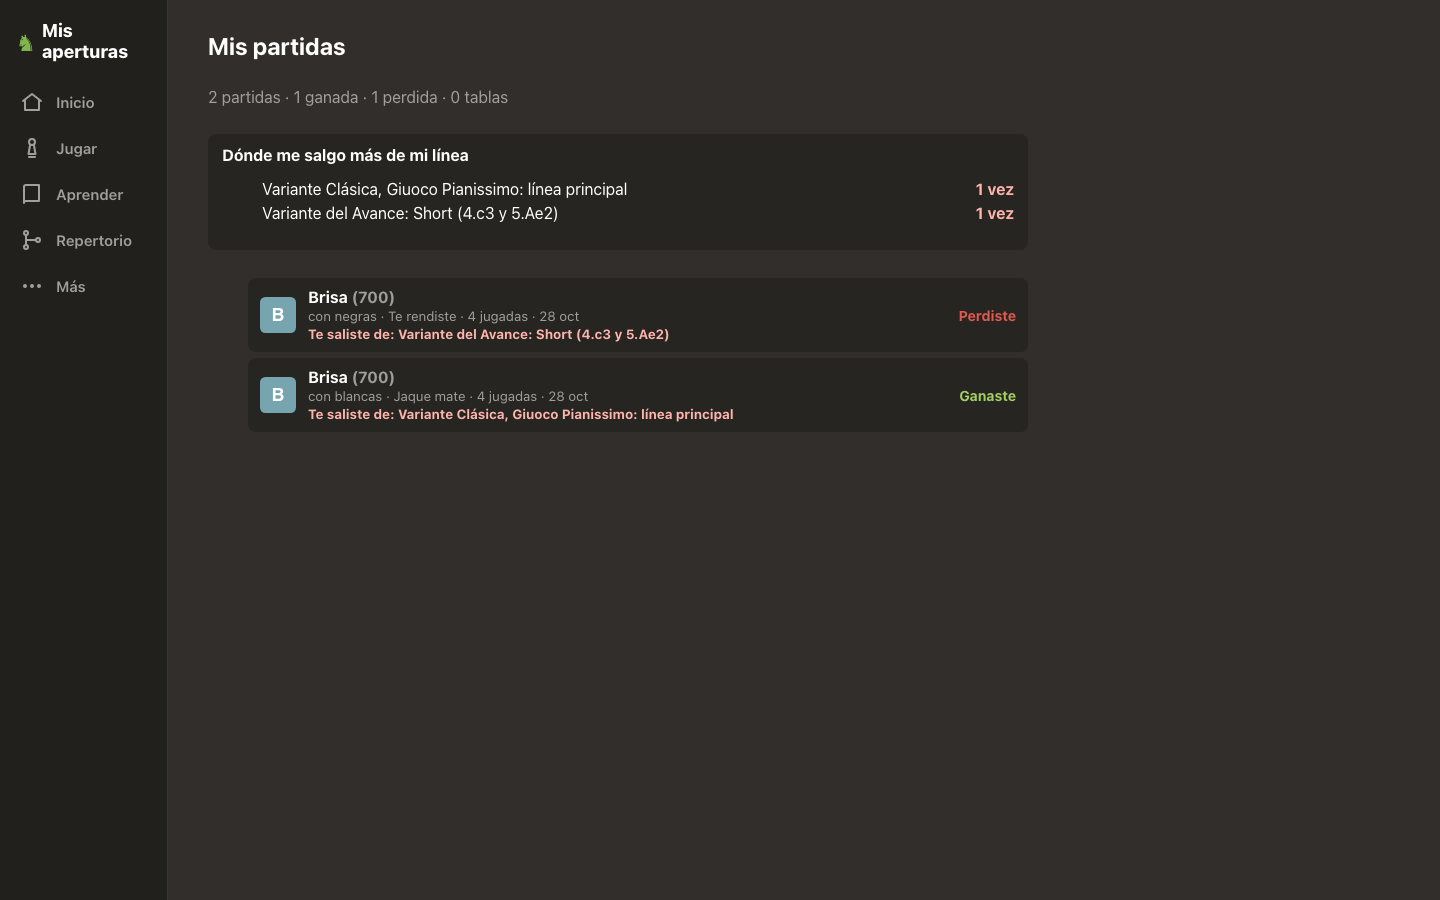
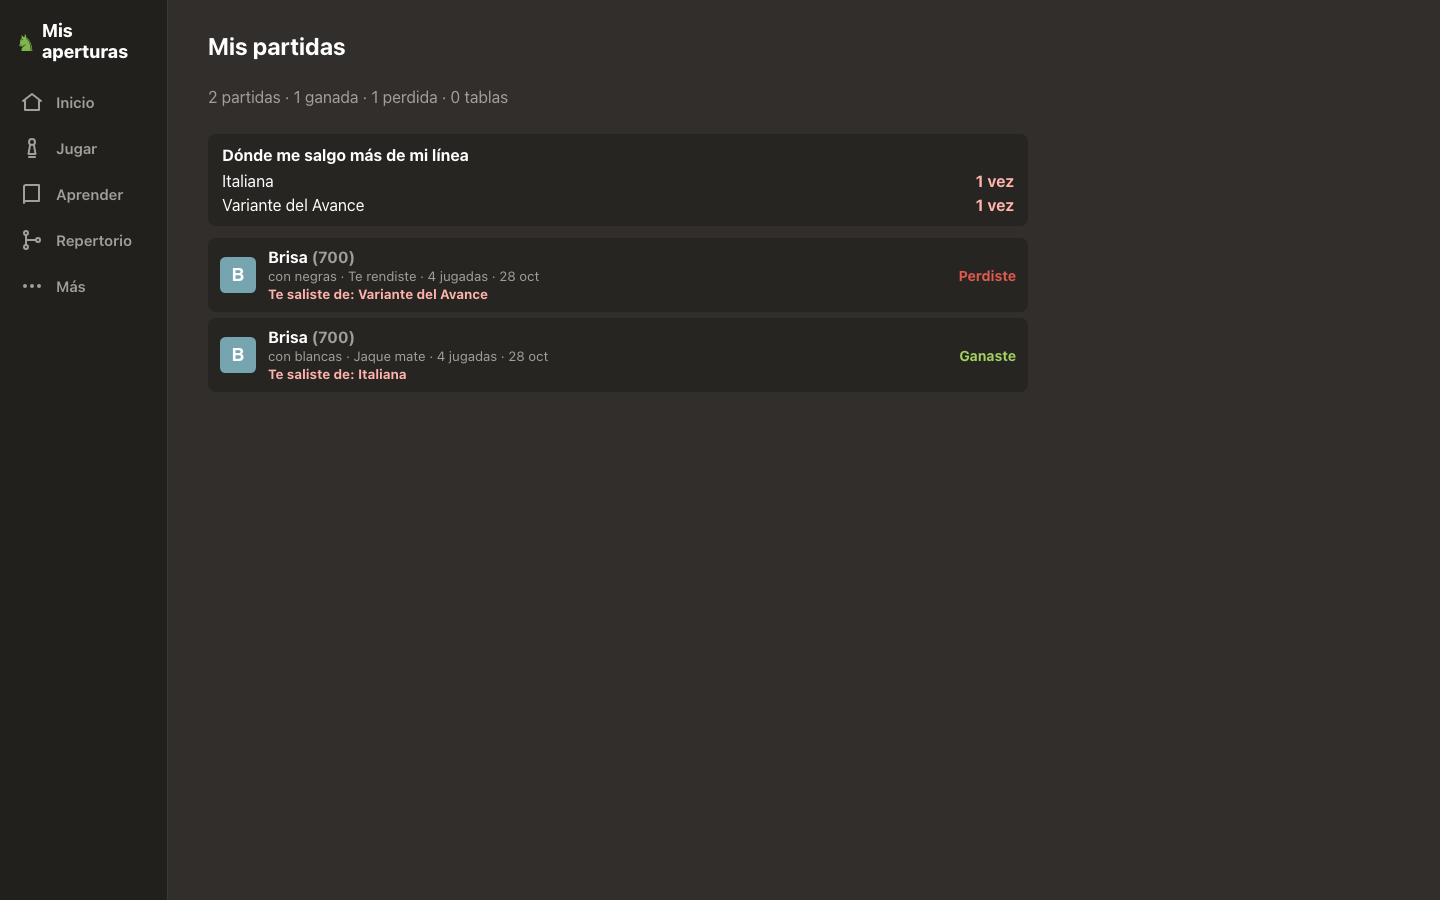
feat: historial de mis partidas, con dónde me salgo más (R2)
Cada partida terminada se guarda en el navegador con su resumen de
apertura (aunque la guía estuviera apagada). 'Mis partidas' (menú Más):
totales, en qué líneas me salgo más y la lista. La salida se nombra por
lo que comparten las líneas de esa jugada (en 2.Cf3: 'Italiana').

Claude-Session: https://claude.ai/code/session_01TXRhWkTq6qnZpMtyyLCSRy

diff --git a/src/guia/guia.ts b/src/guia/guia.ts
@@ -335,13 +335,15 @@ export function resumenDePartida(rep: Repertorio, color: ColorCorto, historia: s
     if (!op) {
       if (esMiPly(color, ply)) {
         const linea = ops[0]!
+        // si esa jugada todavía sirve a varias líneas, se nombra lo que comparten (la familia o la apertura)
+        const nombrada = lineaNombrada(linea.lineas)
         return {
           caso: 'me-sali',
           hastaPly: ply - 1,
-          texto: `Seguiste tu línea hasta ${ply > 0 ? num(historia[ply - 1]!, ply - 1) : 'el inicio'}. En ${num(jugada, ply)} te saliste tú: tu línea decía ${num(linea.san, ply)} (${linea.lineas[0]!.nombre}).`,
-          linea: linea.lineas[0],
+          texto: `Seguiste tu línea hasta ${ply > 0 ? num(historia[ply - 1]!, ply - 1) : 'el inicio'}. En ${num(jugada, ply)} te saliste tú: tu línea decía ${num(linea.san, ply)} (${nombrada.nombre}).`,
+          linea: nombrada,
           salida: { ply, jugue: jugada, linea: linea.san },
-          ingles: inglesDeLinea(linea.lineas[0]),
+          ingles: inglesDeResumen(nombrada),
         }
       }
       return {
@@ -352,10 +354,17 @@ export function resumenDePartida(rep: Repertorio, color: ColorCorto, historia: s
         ingles: inglesDeResumen(ultimaLinea),
       }
     }
-    ultimaLinea = op.lineas.length > 1 && new Set(op.lineas.map((l) => l.familia)).size === 1 ? { ...op.lineas[0]!, nombre: op.lineas[0]!.familia } : op.lineas.length > 1 ? { ...op.lineas[0]!, nombre: ctx_nombreApertura(op.lineas[0]!) } : op.lineas[0]
+    ultimaLinea = lineaNombrada(op.lineas)
   }
   const ultima = historia.length > 0 ? num(historia[historia.length - 1]!, historia.length - 1) : 'el inicio'
   return { caso: 'completa', hastaPly: historia.length - 1, texto: `Seguiste tu línea toda la partida, hasta ${ultima}${ultimaLinea ? ` (${ultimaLinea.nombre})` : ''}.`, linea: ultimaLinea, ingles: inglesDeResumen(ultimaLinea) }
+}
+
+/** La línea con el nombre de lo que comparten: ella misma si es una; su familia; o su apertura (el curso). */
+function lineaNombrada(lineas: LineaRepertorio[]): LineaRepertorio {
+  const l = lineas[0]!
+  if (lineas.length === 1) return l
+  return new Set(lineas.map((x) => x.familia)).size === 1 ? { ...l, nombre: l.familia } : { ...l, nombre: ctx_nombreApertura(l) }
 }
 
 /** En el resumen, si la línea se nombra por su familia o su curso, solo la apertura en inglés (sin la variante). */

diff --git a/src/estilos.css b/src/estilos.css
@@ -368,7 +368,7 @@ h1, h2, h3 { margin: 0; }
 .historial { display: flex; flex-direction: column; gap: 12px; }
 .historial h1 { font-size: 24px; }
 .historial h2 { font-size: 16px; margin-bottom: 8px; }
-.lista-salidas, .lista-partidas { list-style: none; display: flex; flex-direction: column; gap: 6px; }
+.lista-salidas, .lista-partidas { list-style: none; padding: 0; margin: 0; display: flex; flex-direction: column; gap: 6px; }
 .lista-salidas li { display: flex; justify-content: space-between; gap: 12px; }
 .lista-partidas li { display: flex; align-items: center; gap: 12px; background: var(--fondo-panel); border-radius: var(--radio); padding: 10px 12px; }
 .lista-partidas .detalle { flex: 1; display: flex; flex-direction: column; gap: 2px; min-width: 0; }
